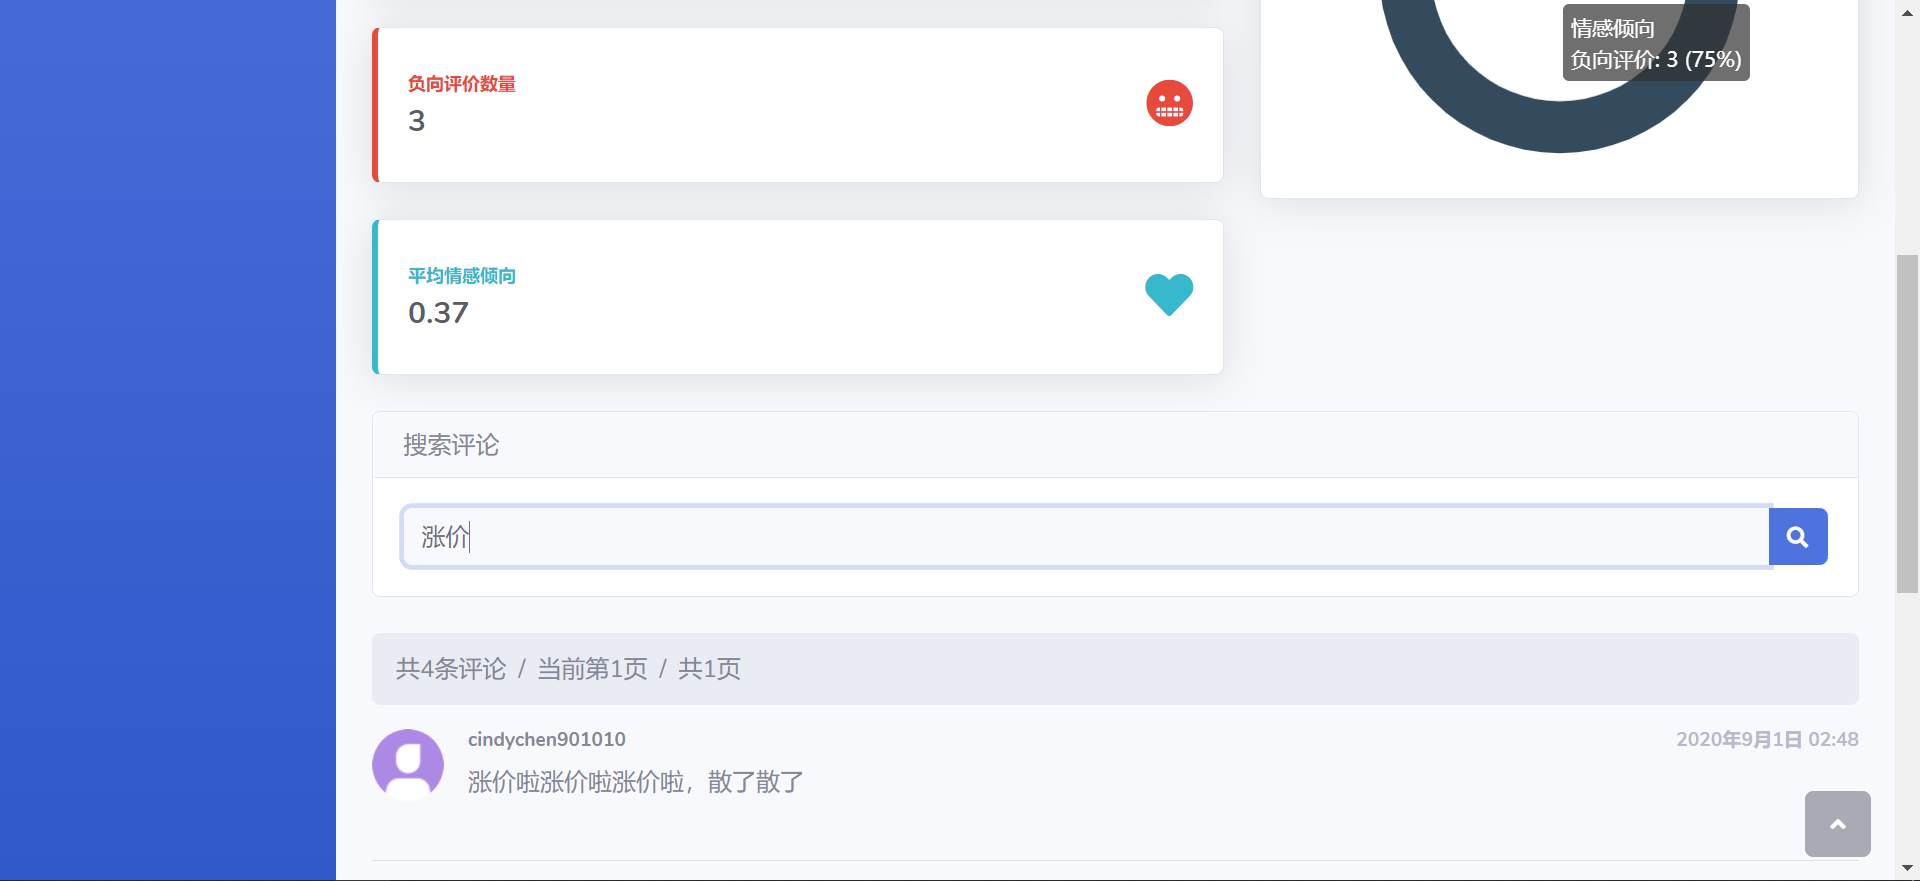
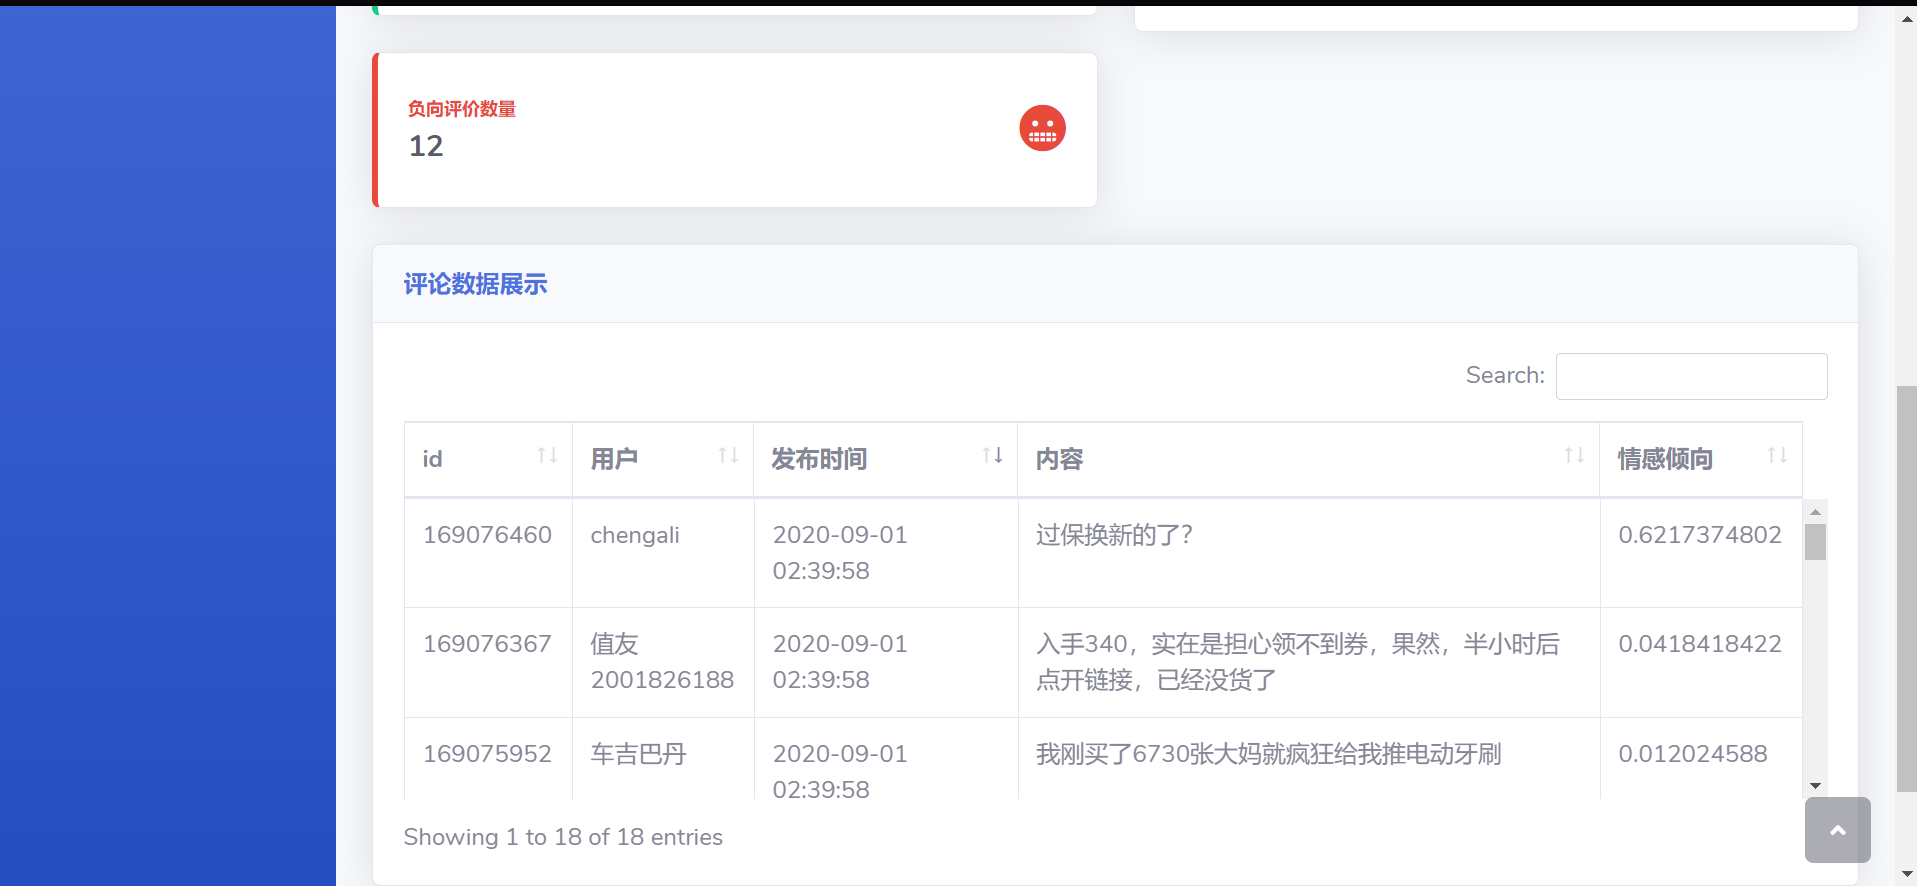
fix(show_smzdm): 修改样式

diff --git a/week10/show_smzdm/smzdm/static/js/my-script.js b/week10/show_smzdm/smzdm/static/js/my-script.js
@@ -100,11 +100,31 @@ function get_analysis(url) {
 
 // 渲染table
 // datatable js
+// $.fn.dataTable.ext.search.push(
+//     function( settings, data, dataIndex ) {
+//         var end = parseInt( $('#start').val(), 10 );
+//         var start = parseInt( $('#end').val(), 10 );
+//         var date = parseFloat( data[2] ) || 0; // use data for the age column
+ 
+//         if ( ( isNaN( start ) && isNaN( end ) ) ||
+//              ( isNaN( start ) && date <= end ) ||
+//              ( start <= date   && isNaN( end ) ) ||
+//              ( start <= date   && age <= end ) )
+//         {
+//             return true;
+//         }
+//         return false;
+//     }
+// );
 
 function get_table(comments) {
+    
     // 渲染table
+    // var table =
     $('#dataTable').DataTable( {
         // 特性
+        "scrollY": "200px",
+        "paging": false,
         "processing": true,
         // 数据
         "data": comments,
@@ -130,8 +150,12 @@ function get_table(comments) {
                 "data": "sentiments",
                 "width": "5%",
             },
-        ]
+        ],
+        "order": [[2, 'desc']]
       } );
+    // $('#start, #end').keyup( function() {
+        // table.draw();
+    // });
 }
 
 // 渲染 pie

diff --git a/week10/show_smzdm/smzdm/templates/table.html b/week10/show_smzdm/smzdm/templates/table.html
@@ -5,6 +5,21 @@
     </div>
     <div class="card-body">
         <div class="table-responsive">
+        {% comment %} <p>
+        输入一组范围：
+        </p>
+        <table border="0" cellspacing="5" cellpadding="5">
+            <tbody>
+            <tr>
+                <td>起始日期:</td>
+                <td><input type="text" id="start" name="start"></td>
+            </tr>
+            <tr>
+                <td>结束日期:</td>
+                <td><input type="text" id="end" name="end"></td>
+            </tr>
+            </tbody>
+        </table> {% endcomment %}
         <table class="table table-bordered" id="dataTable" width="100%" cellspacing="0">
             <thead>
             <tr>
